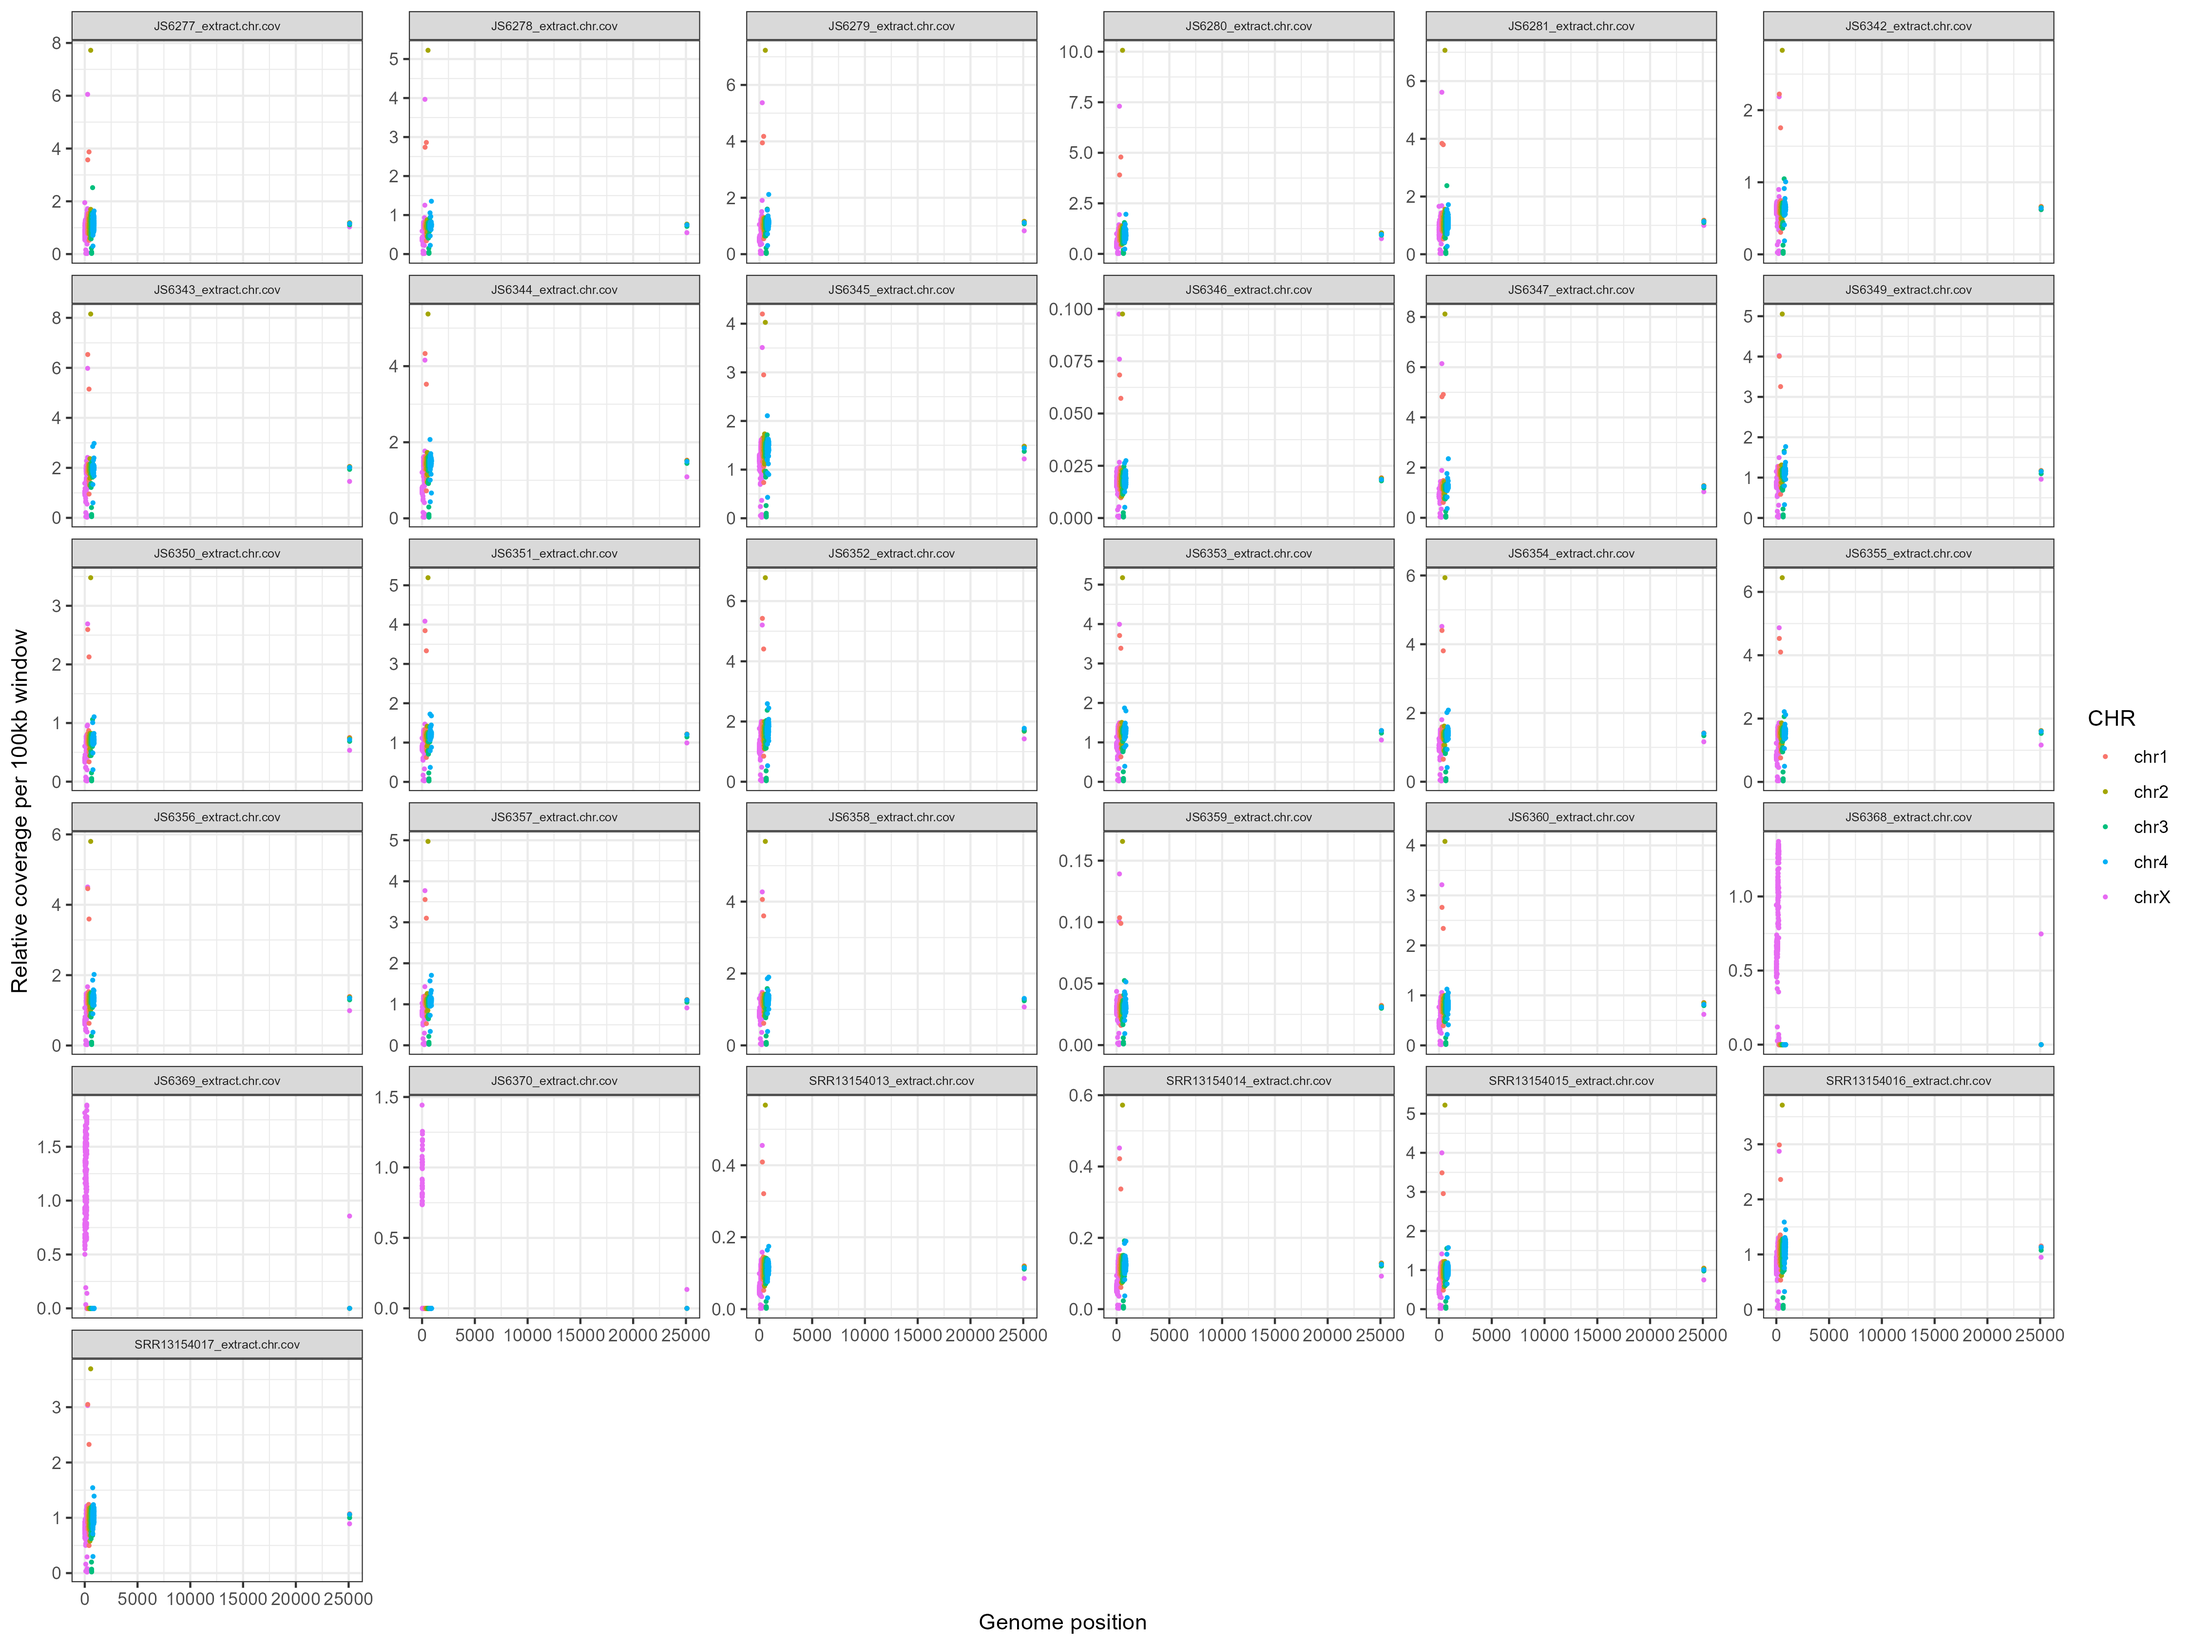
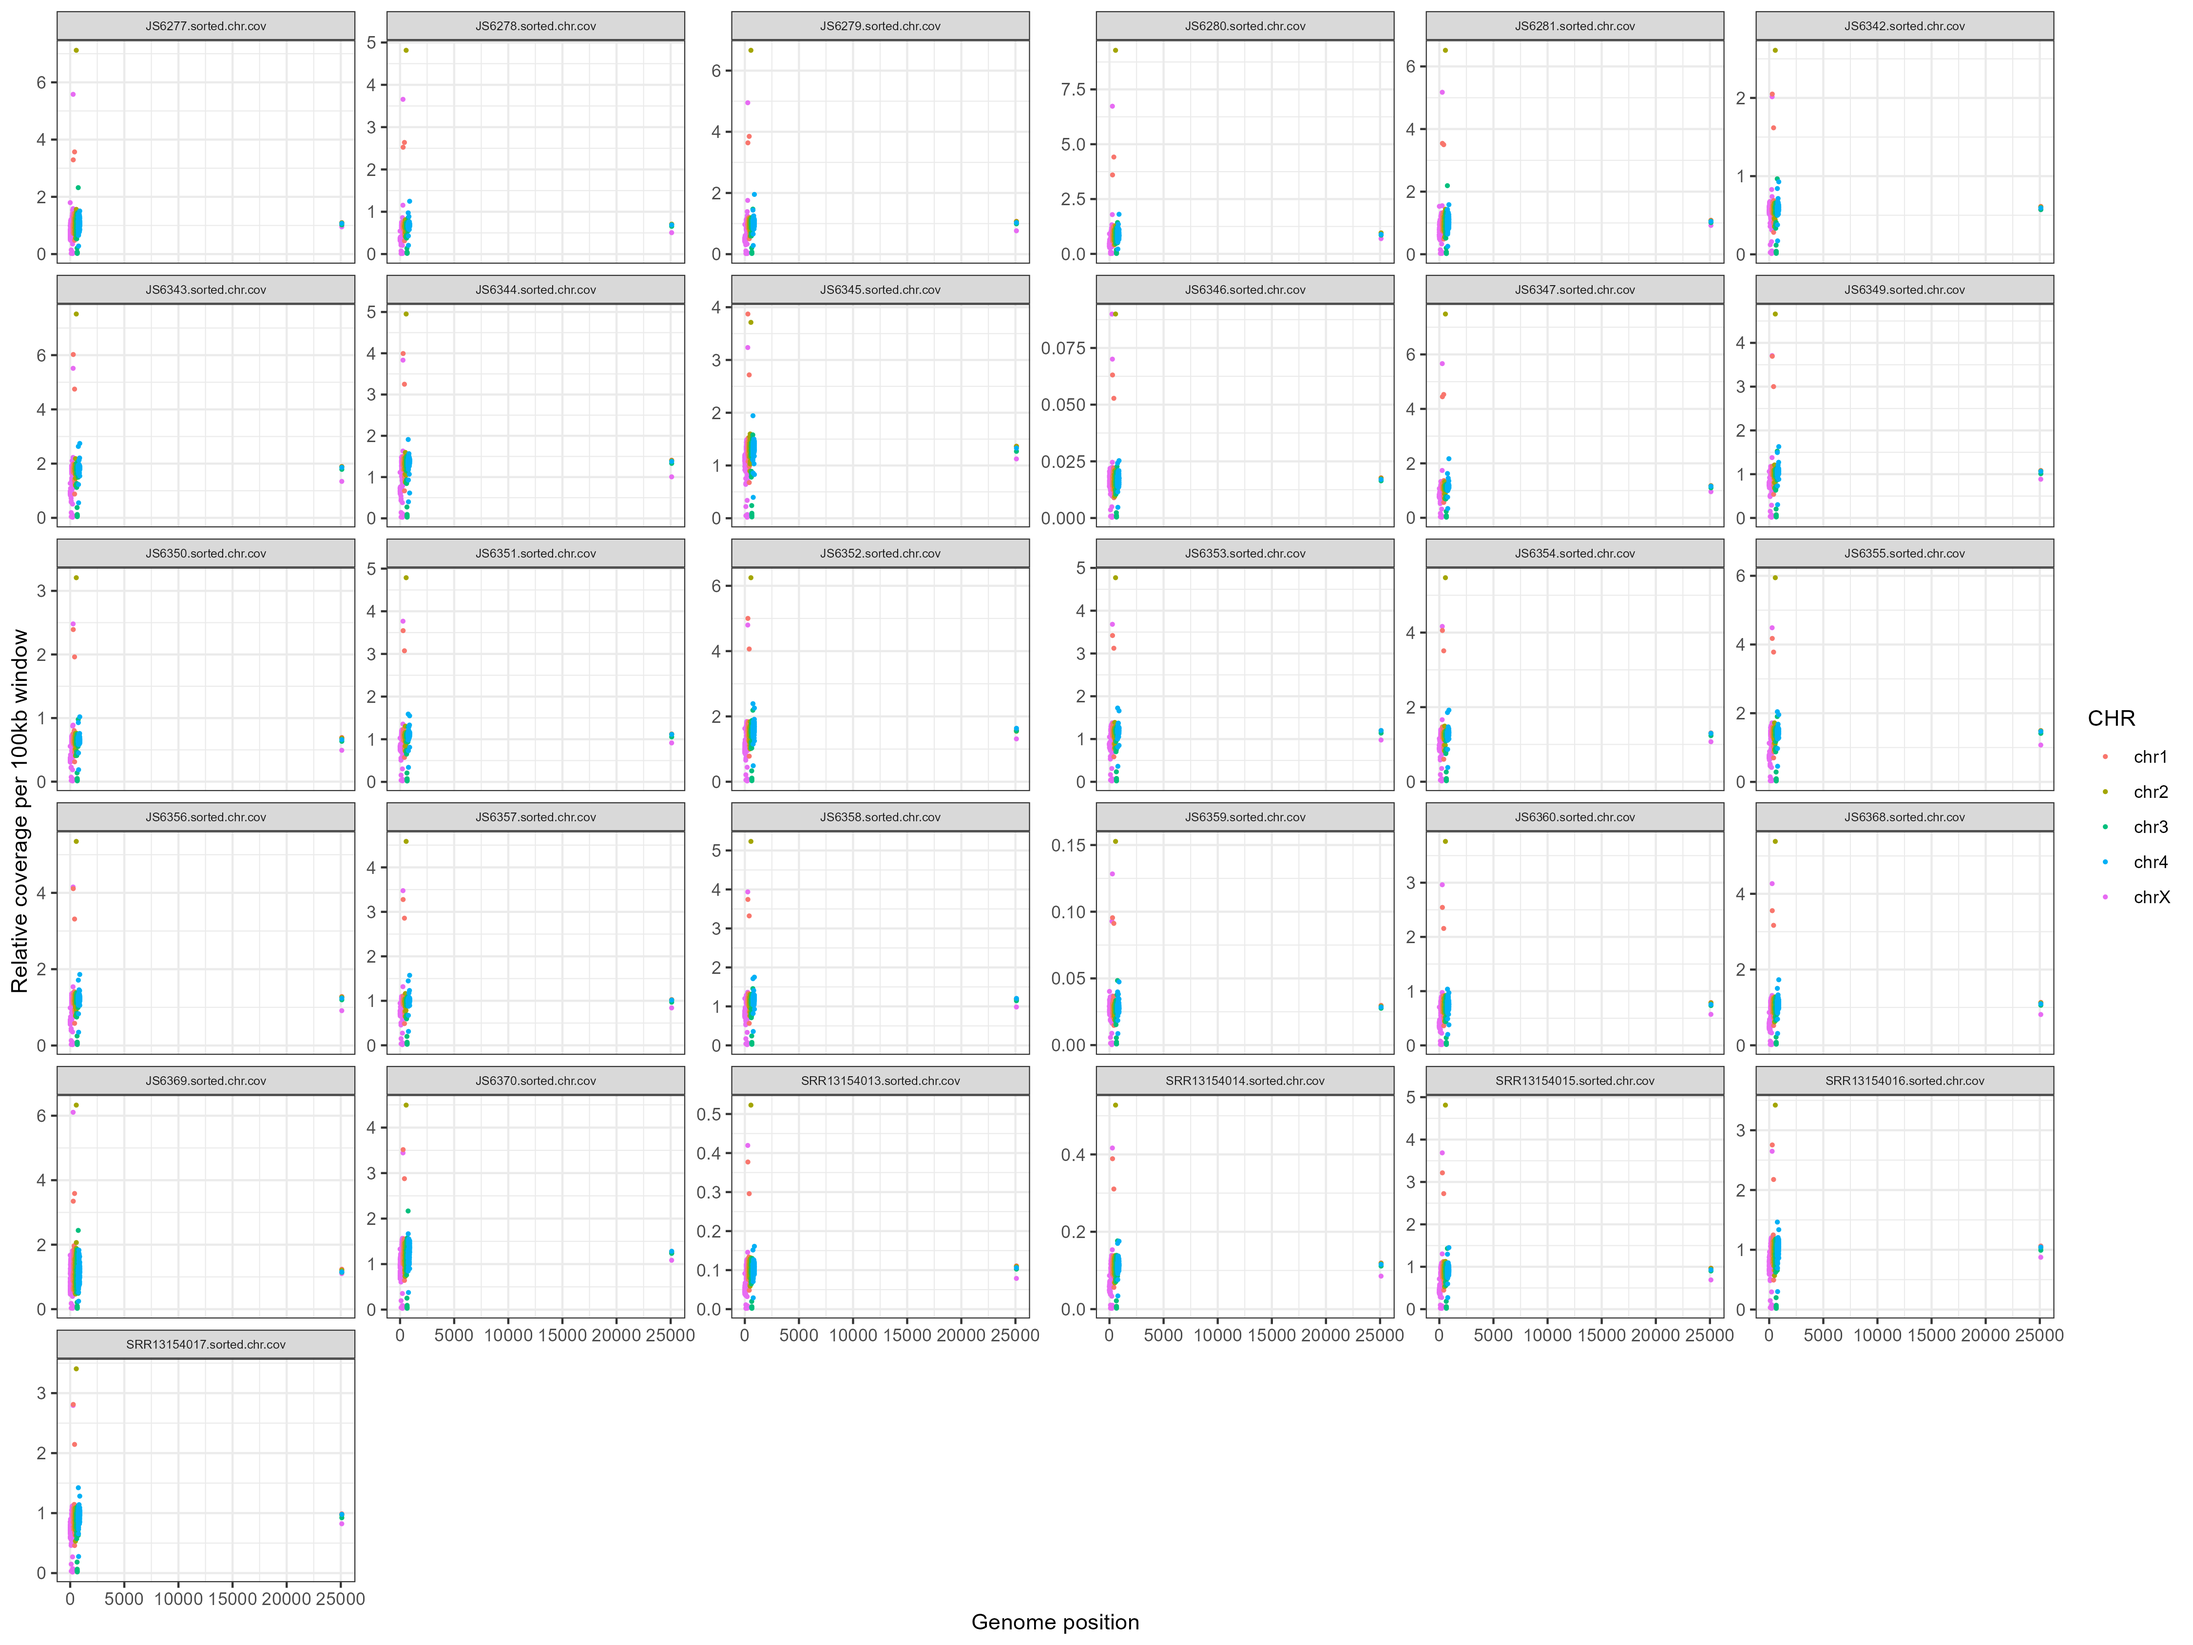
update

diff --git a/02_code/hw_wgs_workbook.md b/02_code/hw_wgs_workbook.md
@@ -1763,11 +1763,7 @@ Extract the 42 (or more) SNPs in all samples and compare. Can use grep? Artemis?
 
 
 
-
-
-
-## Coverage on extracted D. immitis reads
-
+## Coverage on original sorted bam files (D. immitis, Wolbachia and dog)
 Adopted the code from Javier's paper.
 
 ```bash
@@ -1775,17 +1771,17 @@ Adopted the code from Javier's paper.
 
 # PBS directives 
 #PBS -P RDS-FSC-Heartworm_MLR-RW
-#PBS -N coverage
-#PBS -l select=1:ncpus=16:mem=40GB
+#PBS -N coverage_di_wol_dog
+#PBS -l select=3:ncpus=1:mem=50GB
 #PBS -l walltime=24:00:00
 #PBS -m abe
 #PBS -q defaultQ
-#PBS -o coverage.txt
+#PBS -o coverage_di_wol_dog.txt
 #PBS -M rosemonde.power@sydney.edu.au
 
-# qsub ../coverage.pbs
+# qsub ../coverage_di_wol_dog.pbs
 
-WORKING_DIR=/scratch/RDS-FSC-Heartworm_MLR-RW/mapping/coverage
+WORKING_DIR=/scratch/RDS-FSC-Heartworm_MLR-RW/mapping/coverage_di_wol_dog
 cd ${WORKING_DIR}
 
 WINDOW='100000'
@@ -1794,7 +1790,7 @@ module load bamtools/2.5.1
 module load bedtools/2.29.2
 module load samtools/1.9
 
-for i in /scratch/RDS-FSC-Heartworm_MLR-RW/mapping/*extract.bam; do
+for i in /scratch/RDS-FSC-Heartworm_MLR-RW/mapping/*sorted.bam; do
 
 bamtools header -in ${i} | grep "^@SQ" | awk -F'[:\t]' '{printf $3"\t"1"\t"$5"\n"}' OFS="\t" > ${i%.bam}.chr.bed
 bamtools header -in ${i} | grep "^@SQ" | awk -F'[:\t]' '{printf $3"\t"$5"\n"}' OFS="\t" > ${i%.bam}.chr.genome
@@ -1821,6 +1817,9 @@ mkdir COV_STATS
 mv *.chr.cov *_window.cov *.cov coverage_stats.summary /COV_STATS/
 cd COV_STATS
 ```
+Some errors popped up towards the end (because it was in the wrong directory). The .cov files seemed to generate so I did the last few lines of code in the command line afterwards.
+
+
 
 ### Generate quantitative stats on coverage for supplementary tables etc
 Extract mtDNA, Wb and nuclear (mean & stddev) data
@@ -1835,21 +1834,20 @@ For nuclear, we will select only the defined Chr (chrX and chr1 to chr4)
 #PBS -N mtDNA_nuclear
 #PBS -l select=1:ncpus=1:mem=1GB
 #PBS -l walltime=00:04:00
-#PBS -m abe
+#PBS -m e
 #PBS -q defaultQ
 #PBS -o mtDNA_nuclear.txt
-#PBS -M rosemonde.power@sydney.edu.au
 #PBS -J 1-31
 
 # qsub ../mtDNA_nuclear.pbs
 
-cd /scratch/RDS-FSC-Heartworm_MLR-RW/mapping/coverage/COV_STATS
+cd /scratch/RDS-FSC-Heartworm_MLR-RW/mapping/coverage_di_wol_dog/COV_STATS
 
 # Merge the 100000_windows.cov and .chr.cov files together for each sample?
 #Set the filename based on the PBS Array Index
 sample_name=`sed -n "${PBS_ARRAY_INDEX}{p;q}" /project/RDS-FSC-Heartworm_MLR-RW/HW_WGS_ALL/data/analysis/sample_list_v2`
 
-cat ${sample_name}_extract.100000_window.cov ${sample_name}_extract.chr.cov > ${sample_name}_extract.chr.cov.merged.100000_window.cov
+cat ${sample_name}.sorted.100000_window.cov ${sample_name}.sorted.chr.cov > ${sample_name}.sorted.chr.cov.merged.100000_window.cov
 ```
 
 ```bash
@@ -1860,14 +1858,13 @@ cat ${sample_name}_extract.100000_window.cov ${sample_name}_extract.chr.cov > ${
 #PBS -N mtDNA_nuclear2
 #PBS -l select=1:ncpus=1:mem=4GB
 #PBS -l walltime=00:10:00
-#PBS -m abe
+#PBS -m e
 #PBS -q defaultQ
 #PBS -o mtDNA_nuclear2.txt
-#PBS -M rosemonde.power@sydney.edu.au
 
 # qsub ../mtDNA_nuclear2.pbs
 
-cd /scratch/RDS-FSC-Heartworm_MLR-RW/mapping/coverage/COV_STATS
+cd /scratch/RDS-FSC-Heartworm_MLR-RW/mapping/coverage_di_wol_dog/COV_STATS
 # Load modules
 module load datamash/1.7
 
@@ -1881,6 +1878,7 @@ for i in *.chr.cov; do
 done > 'mito_wolb_cov.stats'
 ```
 Transferred all the relevant files into the R_analysis folder on my computer for further analysis in R. Now we'll generate some plots and stats.
+
 
 ### Coverage in R
 
@@ -1924,7 +1922,6 @@ m_wb <- ggplot(nuc_mito_wb_cov, aes(x=ID, y=mito_cov/wb_cov)) +
   theme(axis.text.x = element_text(angle = 90, vjust = 0.5, hjust=1)) +
   labs(title = "Mito. to Wolb. genome coverage ratio", y = "Coverage Ratio")
 m_wb
-# This is where 3 rows had missing values
 
 ggarrange(n_m, n_wb, m_wb, ncol = 3)
 ggsave("cov_ratios.png", height=6, width=20)
@@ -1946,10 +1943,14 @@ data <- purrr::map_df(file_names.window, function(x) {
 })
 colnames(data) <- c("ID", "NUM", "CHR", "START", "END", 
                     "RAW_COVERAGE", "PROPORTION_COVERAGE")
+```
 
+D. immitis coverage:
+
+```R
 # remove scaffolds, mitochondrial and wolbachia genome
 data_nuc <- dplyr::filter(data, !grepl("scaffold|MtDNA|Wb|JAAUVH|CM025",CHR))
-# Also remove chromosomes called JAAUVH010000344 and CM025130.1 etc. - they are part of the dog genome because they are still in the header of the extracted bam files (even though the dog reads aren't there anymore). Removing these dog chromosomes made the plot below work!! Removing them here is totally fine.
+# Also remove chromosomes called JAAUVH010000344 and CM025130.1 etc. - they are part of the dog genome. Removing them here is totally fine.
 
 # data$SEX <- str_detect(data$SCAF,"Trichuris_trichiura_1_")
 
@@ -2010,62 +2011,76 @@ ggsave("chrXtochr1_genomewide_coverage_allsamples_v2.png", height=11.25, width=1
 ```
 ![](output/images/chrXtochr1_genomewide_coverage_allsamples_v2.png)
 
-Now analyse the coverage on the original sorted bam files to get some coverage statistics on D. immitis, Wolbachia and dog.
 
 
+Wolbachia coverage:
 
+```R
+###### Wolbachia coverage
 
+# remove D. immitis and dog genome
+data_wb <- dplyr::filter(data, !grepl("scaffold|MtDNA|chrX|chr1|chr2|chr3|chr4|JAAUVH|CM025",CHR))
 
-## Coverage on original sorted bam files (D. immitis, Wolbachia and dog)
+# plot cov for each sample
+ggplot(data_wb, aes(NUM, PROPORTION_COVERAGE/(median(PROPORTION_COVERAGE)), group = ID, col = CHR)) +
+  geom_point(size=0.5) +
+  labs( x = "Genome position" , y = "Relative coverage per 100kb window") +
+  theme_bw() + theme(strip.text.x = element_text(size = 6)) +
+  facet_wrap(~ID, scales = "free_y")
 
-```bash
-#!/bin/bash
-
-# PBS directives 
-#PBS -P RDS-FSC-Heartworm_MLR-RW
-#PBS -N coverage_di_wol_dog
-#PBS -l select=3:ncpus=1:mem=50GB
-#PBS -l walltime=24:00:00
-#PBS -m abe
-#PBS -q defaultQ
-#PBS -o coverage_di_wol_dog.txt
-#PBS -M rosemonde.power@sydney.edu.au
-
-# qsub ../coverage_di_wol_dog.pbs
-
-WORKING_DIR=/scratch/RDS-FSC-Heartworm_MLR-RW/mapping/coverage_di_wol_dog
-cd ${WORKING_DIR}
-
-WINDOW='100000'
-
-module load bamtools/2.5.1
-module load bedtools/2.29.2
-module load samtools/1.9
-
-for i in /scratch/RDS-FSC-Heartworm_MLR-RW/mapping/*sorted.bam; do
-
-bamtools header -in ${i} | grep "^@SQ" | awk -F'[:\t]' '{printf $3"\t"1"\t"$5"\n"}' OFS="\t" > ${i%.bam}.chr.bed
-bamtools header -in ${i} | grep "^@SQ" | awk -F'[:\t]' '{printf $3"\t"$5"\n"}' OFS="\t" > ${i%.bam}.chr.genome
-
-bedtools makewindows -g ${i%.bam}.chr.genome -w ${WINDOW} > ${i%.bam}.${WINDOW}_window.bed
-
-samtools bedcov -Q 20 ${i%.bam}.chr.bed ${i} | awk -F'\t' '{printf $1"\t"$2"\t"$3"\t"$4"\t"$4/($3-$2)"\n"}' OFS="\t" > ${i%.bam}.chr.cov
-samtools bedcov -Q 20 ${i%.bam}.${WINDOW}_window.bed ${i} | awk -F'\t' '{printf $1"\t"$2"\t"$3"\t"$4"\t"$4/($3-$2)"\n"}' OFS="\t" > ${i%.bam}.${WINDOW}_window.cov
-
-rm ${i%.bam}.chr.bed ${i%.bam}.${WINDOW}_window.bed ${i%.bam}.chr.genome;
-
-done
-
-for i in *.chr.cov; do 
-
-printf "${i}\n" > ${i}.tmp | awk '{print $5}' OFS="\t" ${i} >> ${i}.tmp;
-
-done
-
-paste *.tmp > coverage_stats.summary
-rm *.tmp
-
-mkdir COV_STATS
-mv *.chr.cov *_window.cov *.cov coverage_stats.summary /COV_STATS/
-cd COV_STATS
+ggsave("wb_coverage_allsamples.png", height=11.25, width=15)
 ```
+![](output/images/wb_coverage_allsamples.png)
+
+```R
+# Let's set some x and y limits to see the data a bit better.
+ggplot(data_wb, aes(NUM, PROPORTION_COVERAGE/(median(PROPORTION_COVERAGE)), group = ID, col = CHR)) +
+  geom_point(size=0.5) +
+  labs( x = "Genome position" , y = "Relative coverage per 100kb window") +
+  theme_bw() + theme(strip.text.x = element_text(size = 6)) +
+  facet_wrap(~ID, scales = "free_y") +
+  xlim(0,3000)
+
+ggsave("wb_coverage_allsamples_v2.png", height=11.25, width=15)
+```
+![](output/images/wb_coverage_allsamples_v2.png)
+
+
+
+Dog coverage:
+
+```R
+######## Dog coverage
+# remove D. immitis and Wolbachia
+data_dog <- dplyr::filter(data, !grepl("scaffold|MtDNA|Wb|chrX|chr1|chr2|chr3|chr4",CHR))
+
+# plot cov for each sample
+ggplot(data_dog, aes(NUM, PROPORTION_COVERAGE/(median(PROPORTION_COVERAGE)), group = ID, col = CHR)) +
+  geom_point(size=0.5) +
+  labs( x = "Genome position" , y = "Relative coverage per 100kb window") +
+  theme_bw() + theme(strip.text.x = element_text(size = 6)) +
+  facet_wrap(~ID, scales = "free_y")
+
+ggsave("dog_coverage_allsamples.png", height=11.25, width=15)
+
+# Let's set some x and y limits to see the data a bit better.
+ggplot(data_dog, aes(NUM, PROPORTION_COVERAGE/(median(PROPORTION_COVERAGE)), group = ID, col = CHR)) +
+  geom_point(size=0.5) +
+  labs( x = "Genome position" , y = "Relative coverage per 100kb window") +
+  theme_bw() + theme(strip.text.x = element_text(size = 6)) +
+  facet_wrap(~ID, scales = "free_y") +
+  xlim(0,3000)
+
+ggsave("dog_coverage_allsamples_v2.png", height=11.25, width=15)
+```
+
+Too many JAAU etc chromosomes, it couldn't generate a plot.
+
+
+
+
+
+
+
+
+
